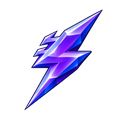
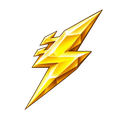
fix(hud): use yellow EMP and slim the debuff notice [full-regression]

Changed region(s): [[0.2, 0.075, 0.875, 0.925]]

diff --git a/tests/player-debuff-browser.spec.js b/tests/player-debuff-browser.spec.js
@@ -5,7 +5,7 @@ async function expectArtwork(card, attack) {
   const image = card.locator('img');
   await expect(image).toHaveAttribute('src', new RegExp(`/${attack}@3x\\.webp$`));
   await expect(image).toHaveJSProperty('naturalWidth', 120);
-  expect(await image.evaluate(img => {
+  expect(await image.evaluate((img, effect) => {
     const canvas = document.createElement('canvas');
     canvas.width = img.naturalWidth;
     canvas.height = img.naturalHeight;
@@ -14,17 +14,21 @@ async function expectArtwork(card, attack) {
     const { data } = ctx.getImageData(0, 0, canvas.width, canvas.height);
     const margin = 8;
     let visiblePixels = 0;
+    let yellowPixels = 0;
     let clipped = false;
     for (let y = 0; y < canvas.height; y++) {
       for (let x = 0; x < canvas.width; x++) {
-        if (data[(y * canvas.width + x) * 4 + 3] <= 16) continue;
+        const offset = (y * canvas.width + x) * 4;
+        if (data[offset + 3] <= 16) continue;
         visiblePixels++;
+        const [r, g, b] = data.subarray(offset, offset + 3);
+        if (r > 175 && g > 115 && r >= g && g > b + 42) yellowPixels++;
         if (x < margin || x >= canvas.width - margin || y < margin || y >= canvas.height - margin) clipped = true;
       }
     }
     const { width, height } = img.getBoundingClientRect();
-    return { width, height, pixels: canvas.height, clipped, visible: visiblePixels >= 1000 };
-  })).toEqual({ width: 40, height: 40, pixels: 120, clipped: false, visible: true });
+    return { width, height, pixels: canvas.height, clipped, visible: visiblePixels >= 1000, palette: effect !== 'emp' || yellowPixels > visiblePixels / 3 };
+  }, attack)).toEqual({ width: 40, height: 40, pixels: 120, clipped: false, visible: true, palette: true });
 }
 
 
@@ -141,13 +145,13 @@ test('speed feedback follows the active debuff and keeps a steady tint with redu
   expect(await motion()).toMatch(/^speed-frost/);
   await page.evaluate(() => window.debuffHud.hit('emp', 230));
   await expect(speedometer).toHaveAttribute('data-debuff', 'emp');
-  await expect(speed).toHaveCSS('color', 'rgb(194, 177, 255)');
+  await expect(speed).toHaveCSS('color', 'rgb(255, 227, 122)');
   expect(await motion()).toMatch(/^speed-surge/);
-  expect(await page.locator('#player-hit-screen').evaluate(node => getComputedStyle(node).backgroundImage)).toContain('120, 90, 255');
+  expect(await page.locator('#player-hit-screen').evaluate(node => getComputedStyle(node).backgroundImage)).toContain('252, 214, 80');
 
   await page.emulateMedia({ reducedMotion: 'reduce' });
   expect(await motion()).toBe('none');
-  await expect(speed).toHaveCSS('color', 'rgb(194, 177, 255)');
+  await expect(speed).toHaveCSS('color', 'rgb(255, 227, 122)');
   await page.emulateMedia({ reducedMotion: 'no-preference' });
   await page.evaluate(() => { document.body.dataset.vfxEnabled = 'false'; });
   expect(await motion()).toBe('none');
@@ -165,4 +169,28 @@ test('speed feedback follows the active debuff and keeps a steady tint with redu
   await expect(speedometer).not.toHaveAttribute('data-debuff');
   await expect(speed).toHaveCSS('color', normal);
   await expect(speed).toHaveText(reading);
+});
+
+test('the notice stays narrow and translucent while the affected status remains legible', async ({ page, gameplayURL }) => {
+  await page.setViewportSize({ width: 390, height: 844 });
+  await page.goto(`${gameplayURL}tests/fixtures/player-debuff.html?locale=zh-TW`);
+  await page.waitForFunction(() => !!window.debuffHud);
+  for (const [effect, color] of [['emp', 'rgb(255, 227, 122)'], ['freeze', 'rgb(153, 228, 255)']]) {
+    await page.evaluate(kind => window.debuffHud.hit(kind, 220), effect);
+    const card = page.locator(`#race-player-hit-center [data-debuff="${effect}"]`);
+    await expect(card).toBeVisible();
+    const appearance = await card.evaluate(node => ({
+      width: node.getBoundingClientRect().width,
+      height: node.getBoundingClientRect().height,
+      stops: [...getComputedStyle(node).backgroundImage.matchAll(/rgba\([^)]+, ([\d.]+)\)/g)].map(match => Number(match[1])),
+      title: getComputedStyle(node.querySelector('strong')).color,
+      timer: getComputedStyle(node.querySelector('time')).color,
+    }));
+    expect(appearance.width).toBeLessThanOrEqual(190);
+    expect(appearance.height).toBeLessThanOrEqual(48);
+    expect(appearance.stops.length).toBeGreaterThanOrEqual(2);
+    expect(Math.max(...appearance.stops)).toBeLessThanOrEqual(.78);
+    expect(appearance.title).toBe(color);
+    expect(appearance.timer).toBe(color);
+  }
 });

diff --git a/src/PlayerHitCenter.vue b/src/PlayerHitCenter.vue
@@ -37,20 +37,20 @@ onUnmounted(onLocaleChange(next => { locale.value = next; }));
   grid-row: 2;
   display: grid;
   gap: 5px;
-  width: min(90%, clamp(206px, 29vw, 292px));
+  width: min(92%, clamp(190px, 24vw, 236px));
 }
 .player-hit-card {
   --hit-accent: var(--emp-hit-color);
   display: grid;
   grid-template-columns: auto minmax(0, 1fr) auto;
   align-items: center;
-  gap: clamp(8px, 1.4vw, 13px);
-  padding: 4px clamp(10px, 1.4vw, 14px) 4px 4px;
-  border: 1px solid color-mix(in srgb, var(--hit-accent) 70%, transparent);
+  gap: clamp(6px, 1.15vw, 10px);
+  padding: 2px clamp(8px, 1.25vw, 12px) 2px 2px;
+  border: 1px solid color-mix(in srgb, var(--hit-accent) 42%, transparent);
   border-radius: 10px;
-  background: linear-gradient(100deg, rgb(8 24 37 / .92), rgb(8 16 28 / .84));
-  box-shadow: 0 3px 12px rgb(0 0 0 / .32);
-  color: #f4f9ff;
+  background: linear-gradient(100deg, rgb(8 18 29 / .76), rgb(8 18 29 / .70) 68%, rgb(8 18 29 / .53));
+  box-shadow: 0 2px 8px rgb(0 0 0 / .2);
+  text-shadow: 0 1px 3px #0a1323;
 }
 .player-hit-card[data-debuff="freeze"] { --hit-accent: var(--freeze-hit-color); }
 .player-hit-icon {
@@ -60,8 +60,7 @@ onUnmounted(onLocaleChange(next => { locale.value = next; }));
   height: 40px;
   border-radius: 6px;
   color: var(--hit-accent);
-  background: linear-gradient(150deg, color-mix(in srgb, var(--hit-accent) 23%, #10192b), #0a1323 78%);
-  box-shadow: inset 0 0 0 1px color-mix(in srgb, var(--hit-accent) 32%, transparent);
+  background: color-mix(in srgb, var(--hit-accent) 10%, transparent);
 }
 .player-hit-icon img { display: block; object-fit: contain; }
 .player-hit-icon svg {
@@ -74,20 +73,21 @@ onUnmounted(onLocaleChange(next => { locale.value = next; }));
 }
 .player-hit-label { display: grid; gap: 2px; }
 .player-hit-label strong {
-  font: 800 clamp(18px, min(3vw, 5dvh), 26px)/1.05 'Barlow Condensed', var(--cjk-fonts), sans-serif;
+  color: var(--hit-accent);
+  font: 800 clamp(17px, min(3vw, 5dvh), 23px)/1.05 'Barlow Condensed', var(--cjk-fonts), sans-serif;
   letter-spacing: .045em;
 }
 .player-hit-label span {
-  color: #d0dce7;
+  color: #d3dce6;
   font-size: clamp(10px, 1.7dvh, 12px);
   font-weight: 700;
   line-height: 1.15;
 }
 .player-hit-card time {
-  padding-left: clamp(8px, 1.4vw, 14px);
+  padding-left: clamp(6px, 1vw, 10px);
   border-left: 1px solid rgb(230 242 255 / .24);
   color: var(--hit-accent);
-  font: 800 clamp(15px, 2.8dvh, 20px)/1 'Barlow Condensed', var(--cjk-fonts), sans-serif;
+  font: 800 clamp(14px, 2.6dvh, 19px)/1 'Barlow Condensed', var(--cjk-fonts), sans-serif;
   font-variant-numeric: tabular-nums;
   white-space: nowrap;
 }

diff --git a/src/player-hit-screen.css b/src/player-hit-screen.css
@@ -1,8 +1,8 @@
 :root {
   --freeze-hit-color: #99e4ff;
-  --emp-hit-color: #c2b1ff;
-  --emp-iris-rgb: 120 90 255;
-  --emp-cobalt-rgb: 63 123 255;
+  --emp-hit-color: #ffe37a;
+  --emp-yellow-rgb: 252 214 80;
+  --emp-amber-rgb: 246 173 58;
 }
 
 /* Incoming attacks tint the view around the driving line, beneath all interactive HUD. */
@@ -18,11 +18,11 @@
 }
 #player-hit-screen[data-hit="freeze"] { --hit-rgb: 107 210 255; }
 #player-hit-screen[data-hit="emp"] {
-  --hit-rgb: var(--emp-iris-rgb);
+  --hit-rgb: var(--emp-yellow-rgb);
   background:
-    radial-gradient(ellipse at 0 40%, rgb(var(--emp-iris-rgb) / .54), transparent 33%),
-    radial-gradient(ellipse at 100% 58%, rgb(var(--emp-cobalt-rgb) / .49), transparent 33%),
-    linear-gradient(0deg, rgb(var(--emp-iris-rgb) / .37), transparent 21% 82%, rgb(var(--emp-cobalt-rgb) / .38));
+    radial-gradient(ellipse at 0 40%, rgb(var(--emp-yellow-rgb) / .33), transparent 33%),
+    radial-gradient(ellipse at 100% 58%, rgb(var(--emp-amber-rgb) / .27), transparent 33%),
+    linear-gradient(0deg, rgb(var(--emp-yellow-rgb) / .20), transparent 21% 82%, rgb(var(--emp-amber-rgb) / .24));
 }
 #player-hit-screen::before {
   content: "";
@@ -38,8 +38,8 @@
 }
 #player-hit-screen[data-hit="emp"]::before {
   --hit-edge-detail:
-    repeating-linear-gradient(130deg, transparent 0 36px, rgb(223 224 255 / .28) 37px 38px, transparent 40px 86px),
-    repeating-linear-gradient(156deg, transparent 0 55px, rgb(139 171 255 / .22) 59px 60px, transparent 62px 103px);
+    repeating-linear-gradient(130deg, transparent 0 36px, rgb(255 248 215 / .22) 37px 38px, transparent 40px 86px),
+    repeating-linear-gradient(156deg, transparent 0 55px, rgb(255 205 105 / .16) 59px 60px, transparent 62px 103px);
 }
 @media (prefers-reduced-motion: no-preference) {
   #player-hit-screen[data-calm="false"]:not([hidden]) { animation: hit-screen-settle .24s ease-out both; }

diff --git a/tests/rival-status-tint.test.js b/tests/rival-status-tint.test.js
@@ -57,7 +57,7 @@ test('an EMP flickers a rival in a distinct colour; reduced motion keeps it stea
   const samples = [];
   for (let i = 0; i < 20; i++) { frame(0.016); samples.push(lit(tint, 1)); }
   const c = colorOf(tint, 1);
-  assert.ok(c.b > c.r && c.r > c.g, `rival EMP reads blue-violet (${c.toArray()})`);
+  assert.ok(c.r > c.g && c.g > c.b * 3, `rival EMP reads warm yellow (${c.toArray()})`);
   assert.equal(lit(tint, 0), 0, 'only the EMP-hit rival');
   assert.ok(Math.max(...samples.slice(10)) - Math.min(...samples.slice(10)) > 0.3, 'flickers');
   const calm = setup(t);
@@ -176,12 +176,12 @@ test('the incoming status shell tracks the player pose and clears on finish', t 
   frame(.05, { quality: 'low' }, true);
   const empColor = colorOf(tint, playerIndex);
   const rivalEMP = colorOf(tint, 0);
-  assert.ok(empColor.b > empColor.r && empColor.r > empColor.g, 'player EMP is blue-violet at Low quality');
+  assert.ok(empColor.r > empColor.g && empColor.g > empColor.b * 3, 'player EMP is warm yellow at Low quality');
   assert.ok(Math.abs(empColor.r / empColor.b - rivalEMP.r / rivalEMP.b) < 1e-6, 'player and rival shell share the same hue');
   const waves = vehicles[0].parent.getObjectByName('Rival status shockwave');
   for (const index of [0, playerIndex]) {
     const wave = colorOf(waves, index);
-    assert.ok(wave.b > wave.r && wave.r > wave.g, 'player and rival shockwaves share the blue-violet hue');
+    assert.ok(wave.r > wave.g && wave.g > wave.b * 3, 'player and rival shockwaves share the warm yellow hue');
   }
   race.phase = 'finished';
   frame();

diff --git a/src/release-notes-data.ts b/src/release-notes-data.ts
@@ -232,8 +232,8 @@ export const RELEASE_NOTES: readonly ReleaseEntry[] = Object.freeze([
         },
         title: { en: 'See what your rivals are up to', 'zh-TW': '對手狀態一眼看穿' },
         description: {
-          en: 'Rival tail lights flare when they fire NITRO or BOOST. Rivals slowed by FREEZE glow icy blue, and EMP sends arcs across their bodywork.',
-          'zh-TW': '對手啟動 NITRO 或 BOOST 時尾燈會亮起；被凍結減速的對手泛著冰藍光，被電磁脈衝擊中則在車身冒出電弧。'
+          en: 'Rival tail lights flare when they fire NITRO or BOOST. Rivals slowed by FREEZE glow icy blue, and EMP lights them up yellow-green.',
+          'zh-TW': '對手啟動 NITRO 或 BOOST 時尾燈會亮起；被凍結減速的對手泛著冰藍光，被電磁脈衝擊中則泛出黃綠色電光。'
         }
       },
       {

diff --git a/src/effects-palette.ts b/src/effects-palette.ts
@@ -3,7 +3,7 @@ type Rgb = [number, number, number];
 
 export const orange: Rgb = [2.5, 0.85, 0.15], mist: Rgb = [0.58, 0.64, 0.68], gas: Rgb = [0.8, 0.87, 0.92];
 export const blue: Rgb = [0.15, 0.8, 2.5], gold: Rgb = [2.5, 1.8, 0.15], purple: Rgb = [1.2, 0.3, 2.5], red: Rgb = [2.5, 0.1, 0.15];
-export const emp: Rgb = [1.35, 0.48, 2.45]; // Violet core with enough cobalt to distinguish EMP from cyan Freeze
+export const emp: Rgb = [1.75, 1.4, 0.29]; // Warm yellow arcs and rings for EMP
 export const spectrum: Rgb[] = [red, orange, gold, [0.15, 2, 0.65], blue, purple];
 export const pickupColors: Record<string, Rgb | Rgb[]> = { cell: blue, can: orange, tank: gold, overcharge: spectrum };
 export const bonusStyles: Record<string, string> = { 'speed-pad': 'slipstream', 'air-pad': 'charge', 'recovery-pad': 'nitro', 'score-pad': 'risk', emp: 'mystery' };

diff --git a/src/rival-status-fx.ts b/src/rival-status-fx.ts
@@ -19,7 +19,7 @@ const SHARDS = 10, LOW_PLAYER_SHARDS = 4; // crystals per car
 const GROW = 0.22, STAGGER = 0.025, SHATTER = 0.65; // s
 const WAVE = 0.45; // s a shockwave ring lives
 const FROST: Rgb = [0.75, 1.5, 2.6], ICE_WHITE: Rgb = [1.6, 1.9, 2.3], VAPOR: Rgb = [0.7, 0.85, 1];
-const SPARK_WHITE: Rgb = [2.4, 2.5, 2.8];
+const SPARK_WHITE: Rgb = [2.8, 2.65, 2.3];
 const UP = new THREE.Vector3(0, 1, 0);
 const parked = new THREE.Matrix4().makeTranslation(0, -1e4, 0); // never scale 0: lit instances would light NaN
 

diff --git a/src/RaceSpeedometer.vue b/src/RaceSpeedometer.vue
@@ -23,7 +23,7 @@ const hit = computed(() => playerHitView.emp > 0 ? 'emp' : playerHitView.freeze 
 }
 .speedometer[data-debuff="emp"] {
   --speed-color: var(--emp-hit-color);
-  --speed-line: linear-gradient(110deg, #526cf5, #a88aff 34%, #efedff 56%, transparent 88%);
+  --speed-line: linear-gradient(110deg, #d98124, var(--emp-hit-color) 34%, #fff7d6 56%, transparent 88%);
 }
 .speedometer[data-debuff] .speed-number { position: relative; }
 .speedometer[data-debuff] .speed-number > strong,

diff --git a/docs/designs/3x-asset-library/player-debuff/README.md b/docs/designs/3x-asset-library/player-debuff/README.md
@@ -2,4 +2,4 @@
 
 `freeze@3x.png` and `emp@3x.png` are the lossless production masters at 120 × 120 pixels. The HUD displays the transparent WebP exports from `public/feature-assets/player-debuff/` at 40 × 40 CSS pixels. The exports retain the entire cutout with at least 8 transparent pixels around its visible bounds.
 
-The generated Freeze artwork is a six-armed faceted ice crystal with sapphire shadows and cyan highlights. The EMP artwork is a beveled lightning bolt with cobalt sides, a violet face and cold-white highlights. Both use a head-on silhouette and a transparent background for readability during a race.
+The generated Freeze artwork is a six-armed faceted ice crystal with sapphire shadows and cyan highlights. The EMP artwork is a beveled lightning bolt with amber sides, a sunny yellow face and warm-white highlights. Both use a head-on silhouette and a transparent background for readability during a race.

diff --git a/TODO.md b/TODO.md
@@ -1,3 +1,10 @@
+# EMP 黃色電光與減益提示視野
+
+- [x] EMP 閃電圖示、玩家與對手的電弧、時速表及畫面邊緣改為金黃與暖白。調低邊緣光的透明度。
+- [x] 減益卡片縮窄，背景改為半透明，標題與倒數使用各自狀態色。7 個瀏覽器案例、78 個相關單元測試與正式版建置已通過。
+- [x] 恢復歷史影片的已審查說明文字，release-notes 指紋測試通過。
+- [ ] 驗證本分支 HEAD 的 GitHub quality-gate。
+
 # 減益圖示、EMP 配色與時速表提示
 
 - [x] 中央提示套用 120 × 120 透明圖示，畫面顯示 40 × 40 CSS 像素。圖示載入失敗時顯示原線條圖。
